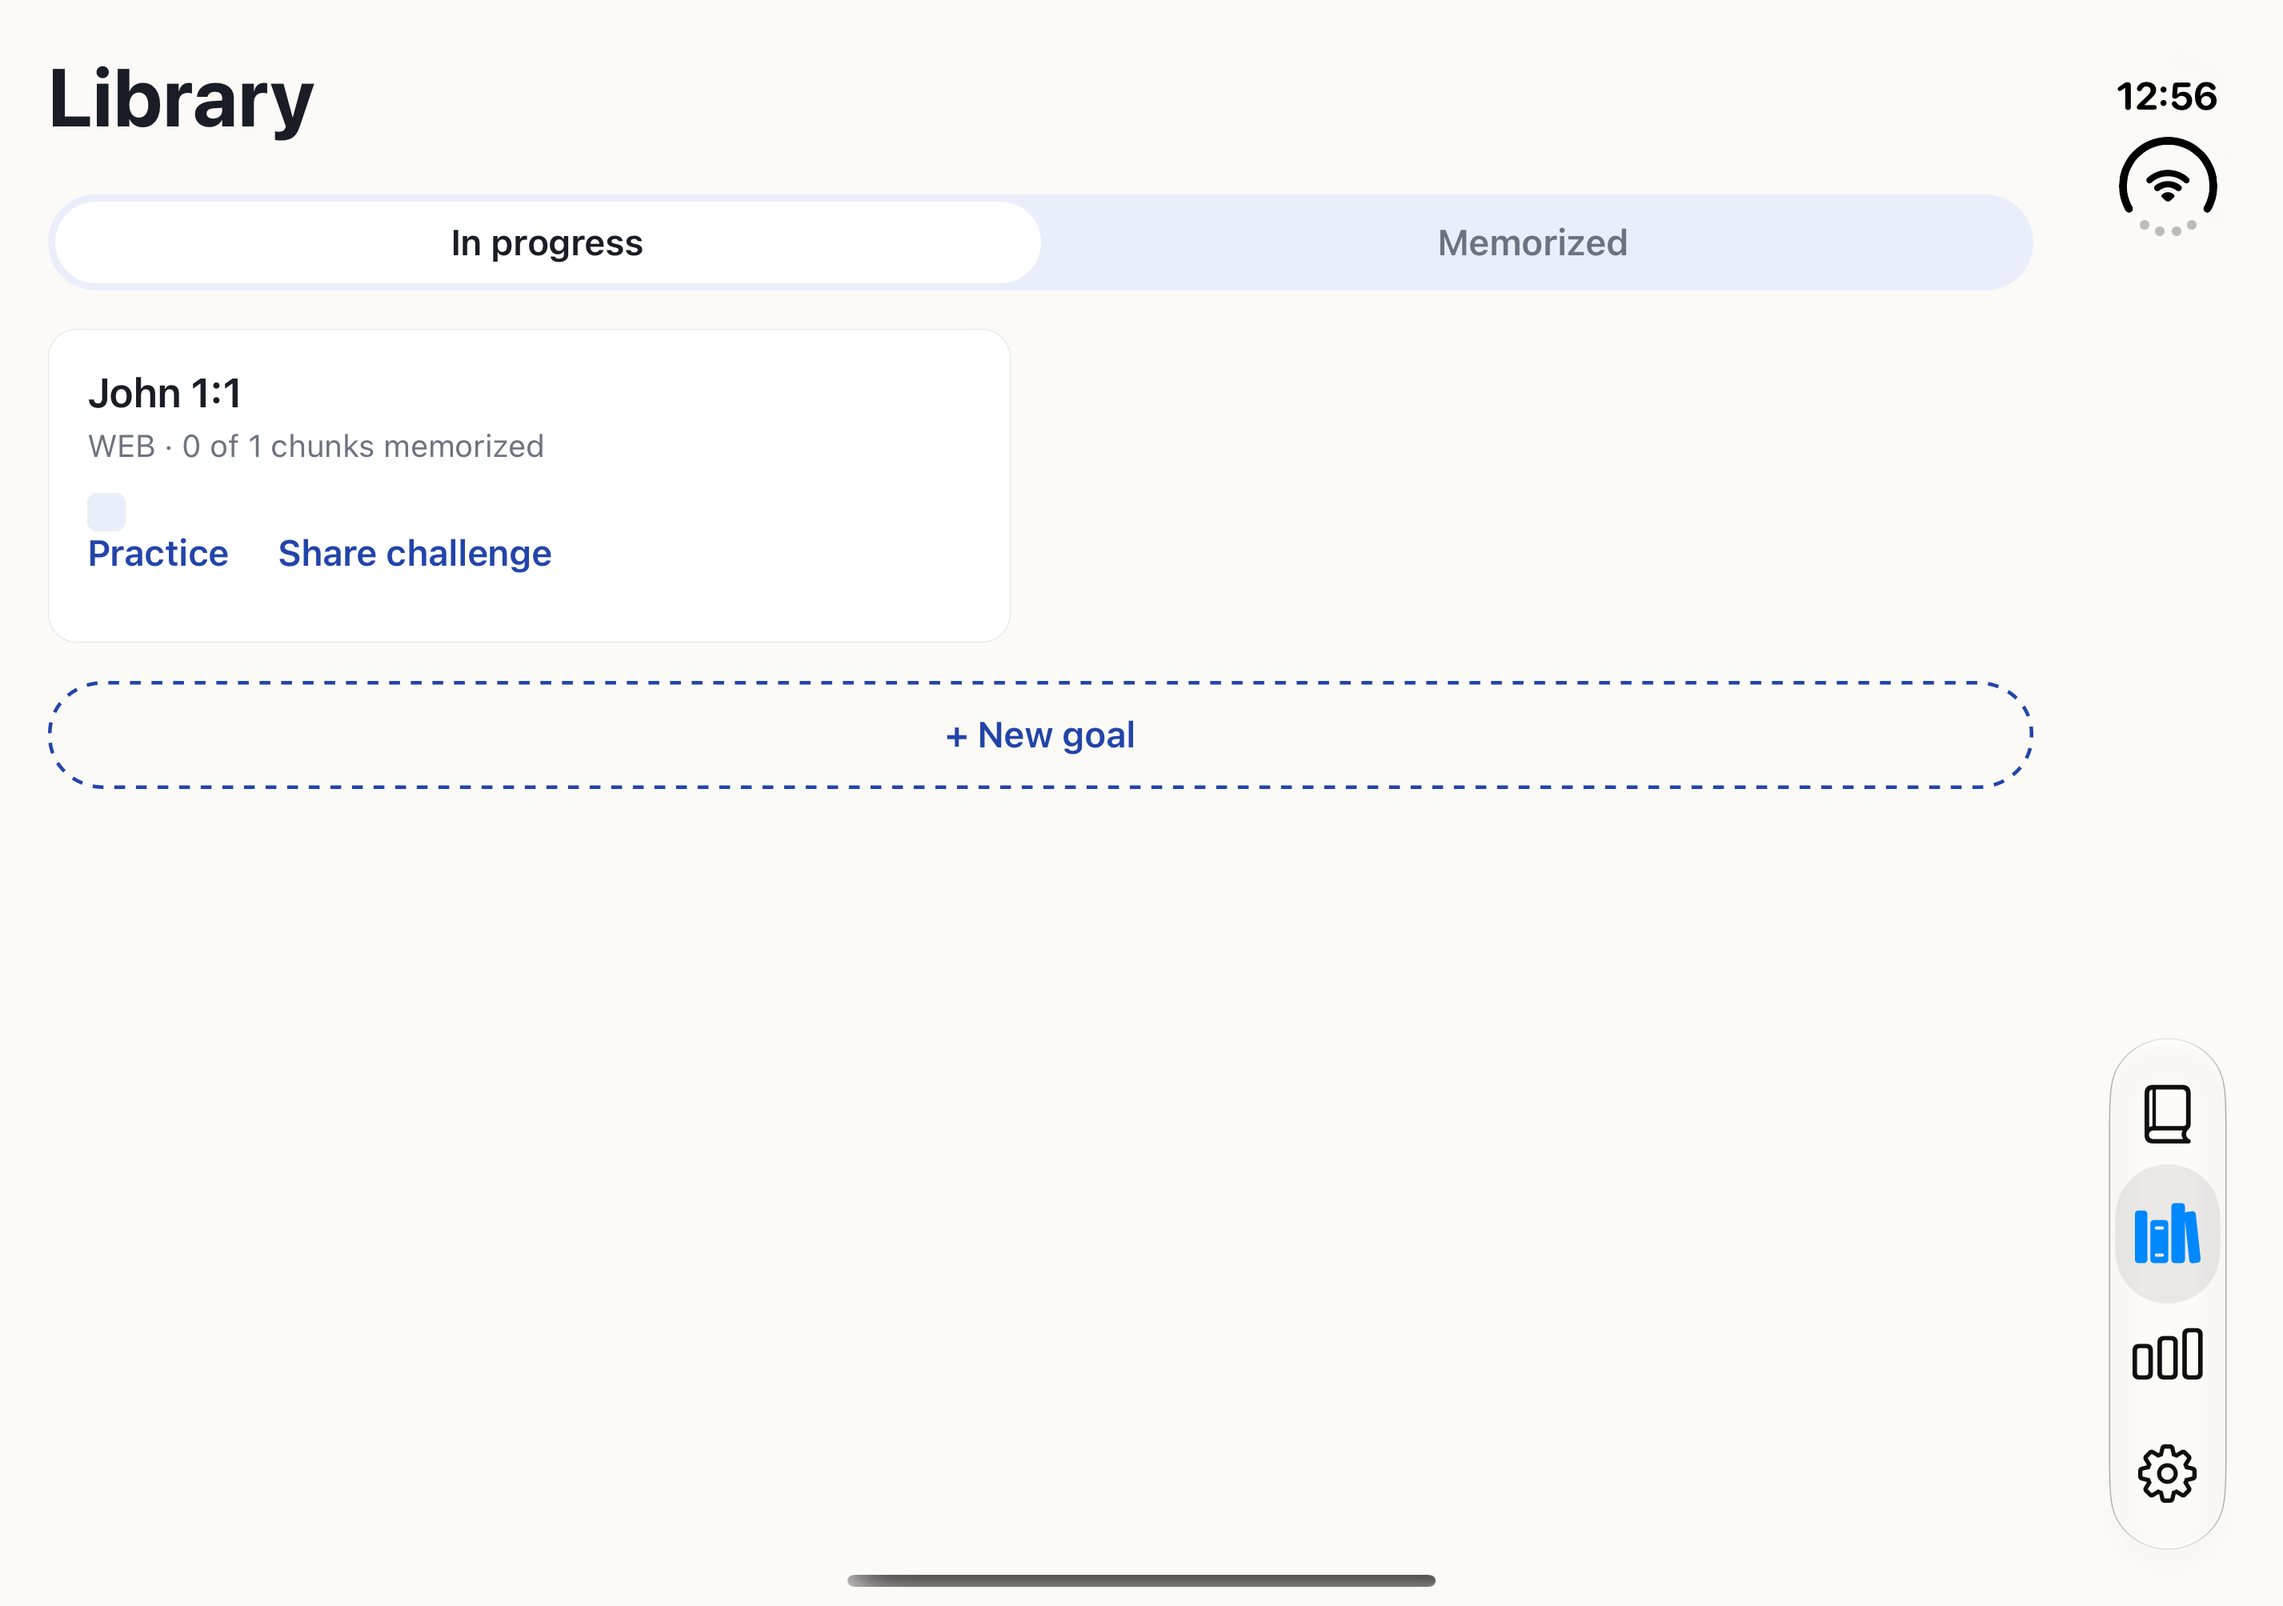
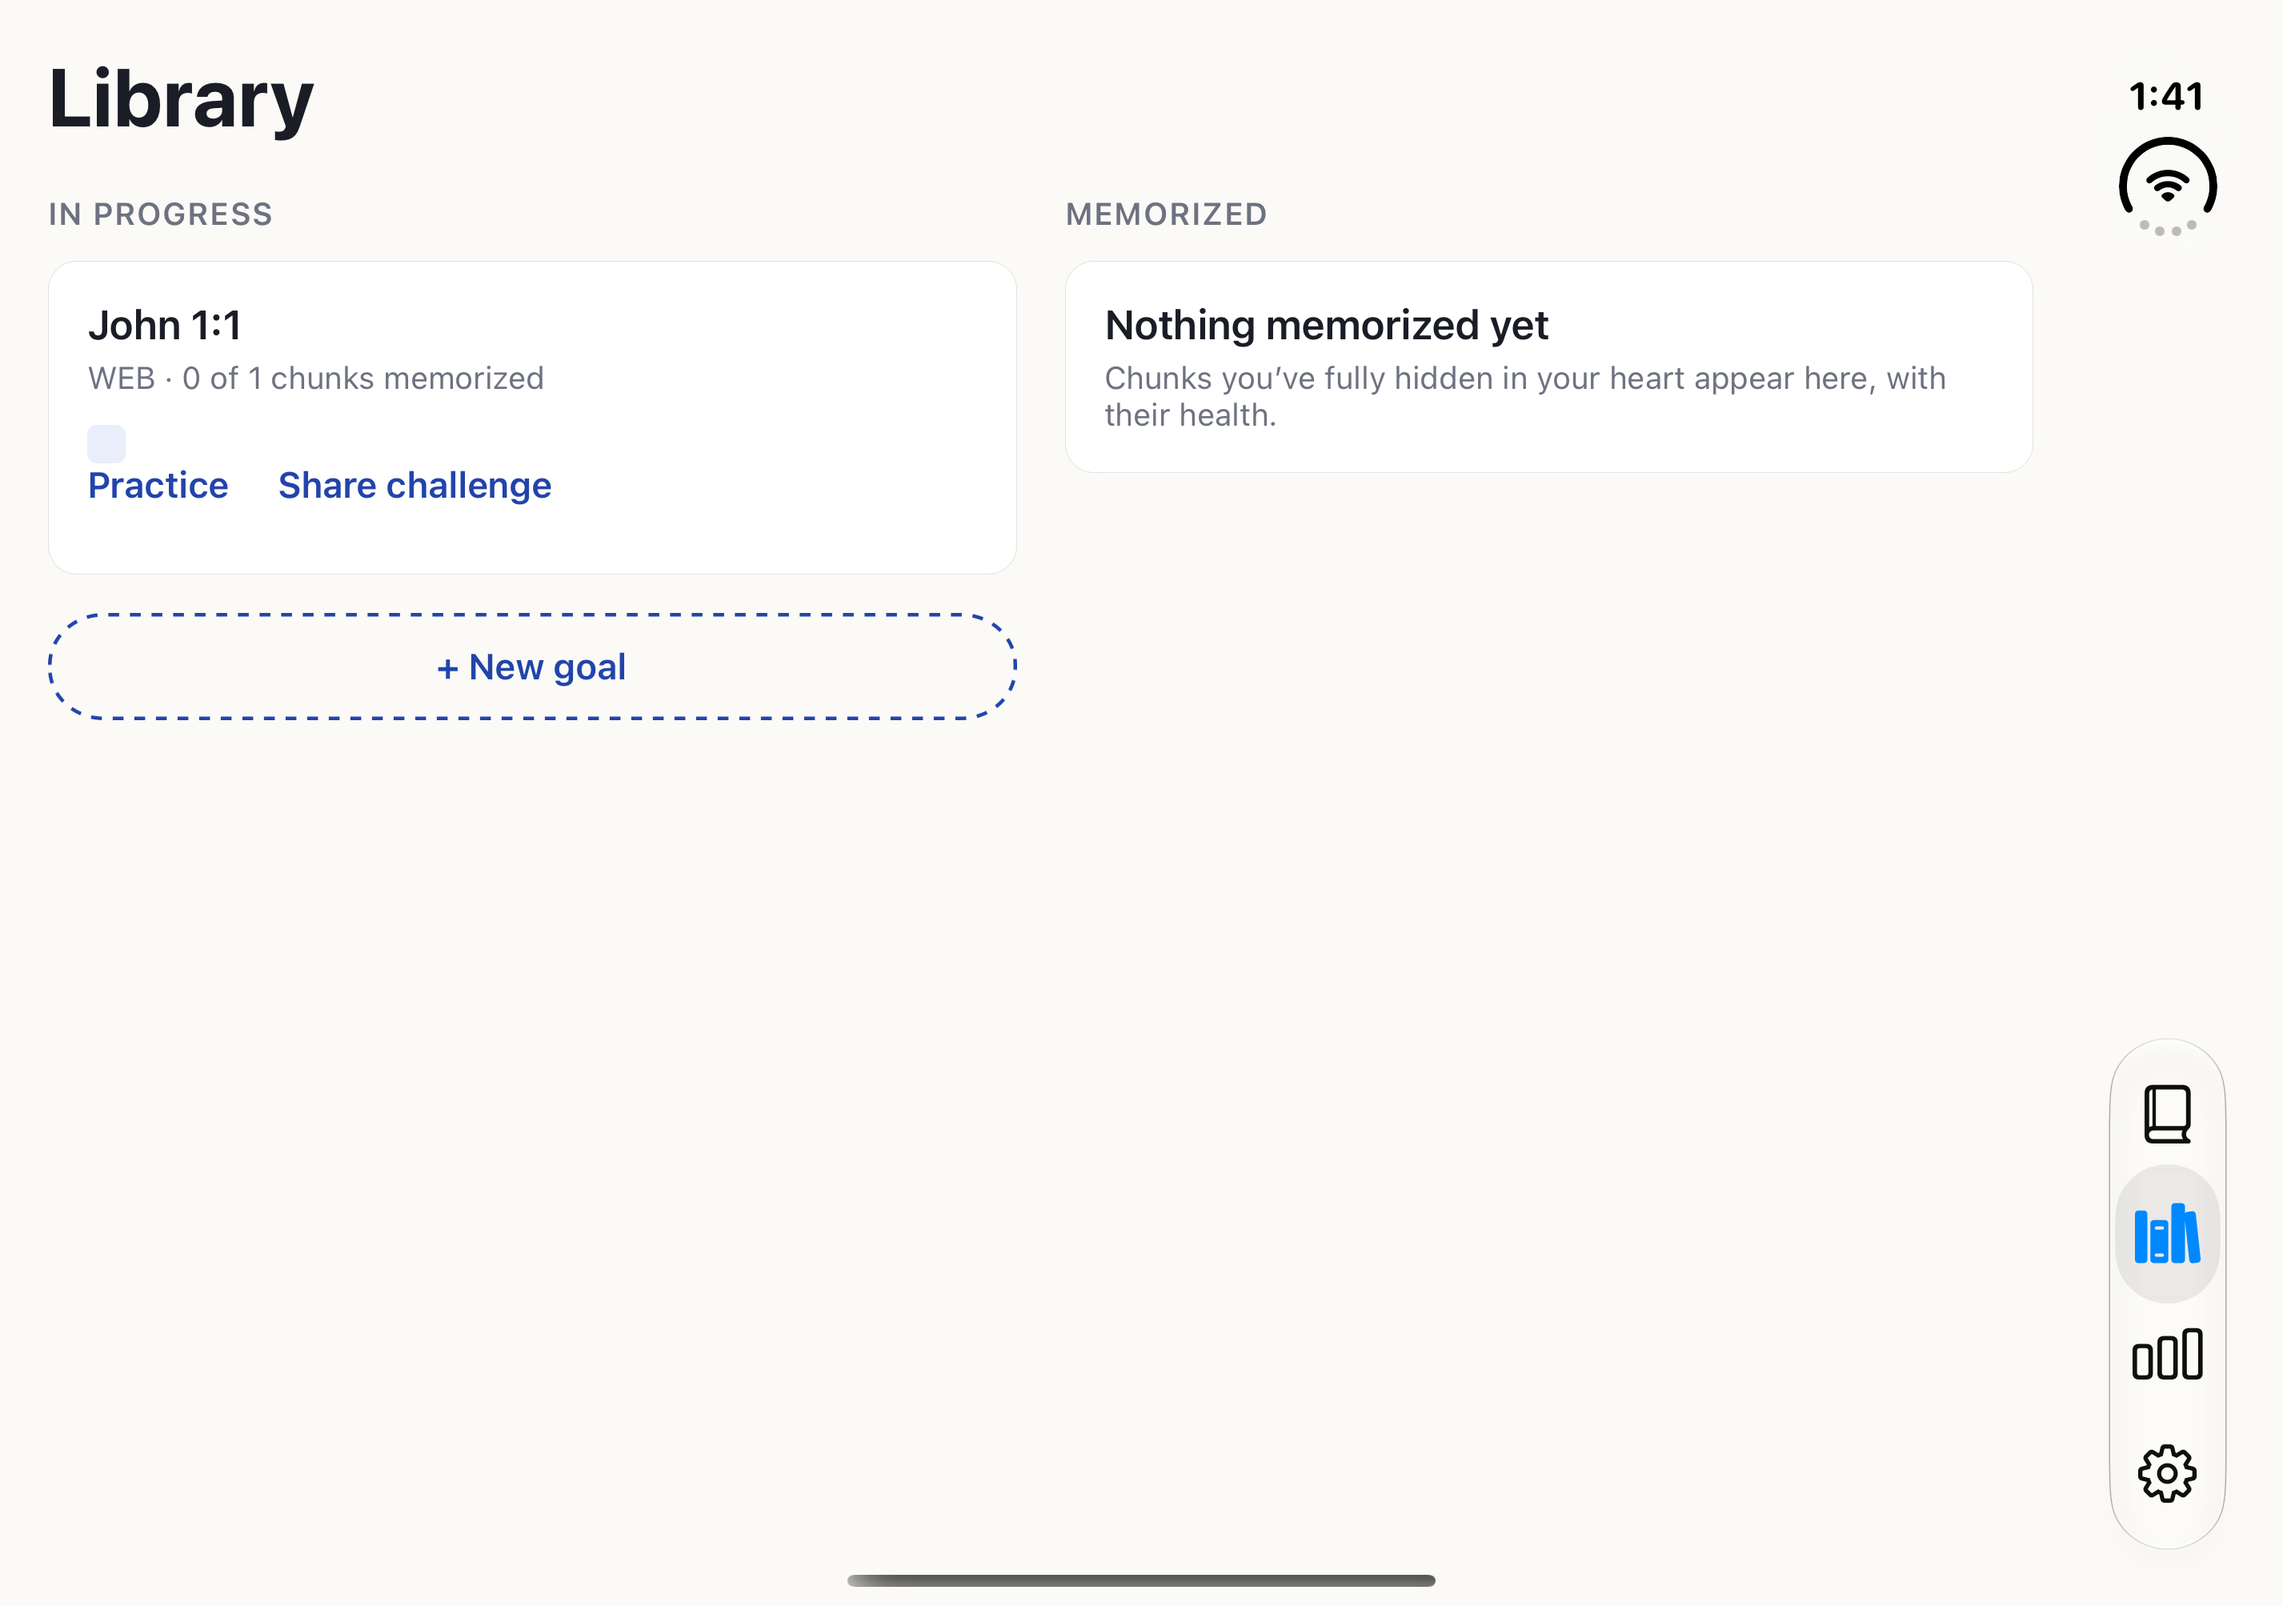
Promo: refresh the Duo cut for the side-by-side Library and Settings
The screens scene now runs four cuts, Practice, Library, Settings and
Stats, with the Library's two shelves and the Settings split view from
the latest Duo work; the controls scene gives up the fifteen frames so the
total and the music cue are unchanged. Captures re-taken from the merged
build, including the half-open Today.

diff --git a/promo/src/Duo.tsx b/promo/src/Duo.tsx
@@ -233,8 +233,13 @@ const Book: React.FC = () => {
 /** Quick cuts through the wide layouts, each sliding in a touch. */
 const Screens: React.FC = () => {
   const frame = useCurrentFrame();
-  const shots = ['img/duo/open-practice.png', 'img/duo/open-library.png', 'img/duo/open-stats.png'];
-  const each = 50;
+  const shots = [
+    'img/duo/open-practice.png',
+    'img/duo/open-library.png',
+    'img/duo/open-settings.png',
+    'img/duo/open-stats.png',
+  ];
+  const each = 41;
   const i = Math.min(shots.length - 1, Math.floor(frame / each));
   const local = frame - i * each;
   const slide = interpolate(local, [0, 10], [40, 0], { extrapolateRight: 'clamp' });
@@ -249,8 +254,8 @@ const Screens: React.FC = () => {
 /** The cover panel's vertical controls, with a push toward the side strip. */
 const Controls: React.FC = () => {
   const frame = useCurrentFrame();
-  const push = interpolate(frame, [20, 140], [1, 1.22], { extrapolateLeft: 'clamp', extrapolateRight: 'clamp' });
-  const swap = frame >= 78;
+  const push = interpolate(frame, [20, 125], [1, 1.22], { extrapolateLeft: 'clamp', extrapolateRight: 'clamp' });
+  const swap = frame >= 70;
   return (
     <div
       style={{
@@ -344,18 +349,22 @@ export const DUO_SCENES: SceneSpec[] = [
   },
   {
     id: 'screens',
-    frames: 150,
+    frames: 165,
     theme: 'vellum',
     render: () => (
       <>
-        <Headline theme="vellum" title="Every screen uses the space." sub="Practice, Library, Stats." />
+        <Headline
+          theme="vellum"
+          title="Every screen uses the space."
+          sub="Side by side, not stretched: Practice, Library, Settings, Stats."
+        />
         <Screens />
       </>
     ),
   },
   {
     id: 'controls',
-    frames: 150,
+    frames: 135,
     theme: 'lapis',
     render: () => (
       <>
